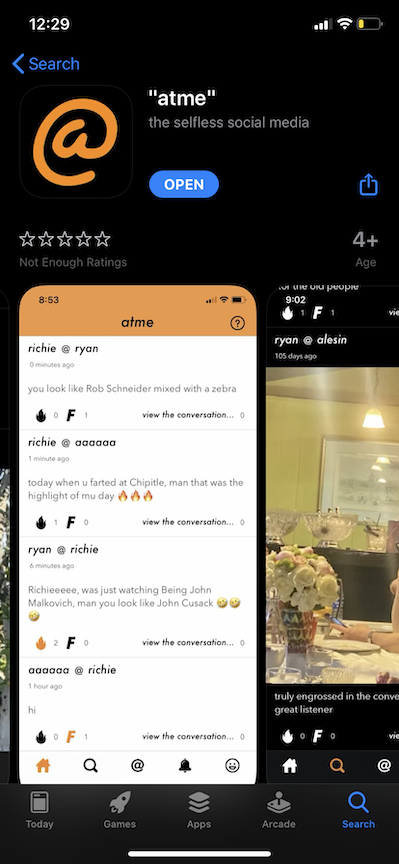
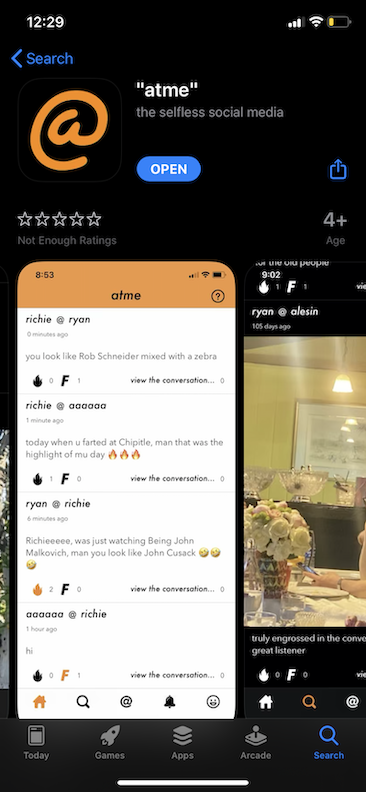
atme app store

diff --git a/content/atme/_index.md b/content/atme/_index.md
@@ -17,7 +17,7 @@ Most social media apps today, particularly Instagram, are based upon self promot
 
 # Some screenshots of `atme`:
 
-![](/img/atme1.jpg)
+![](/img/atme1.PNG)
 
 ![](/img/atme2.PNG)
 
